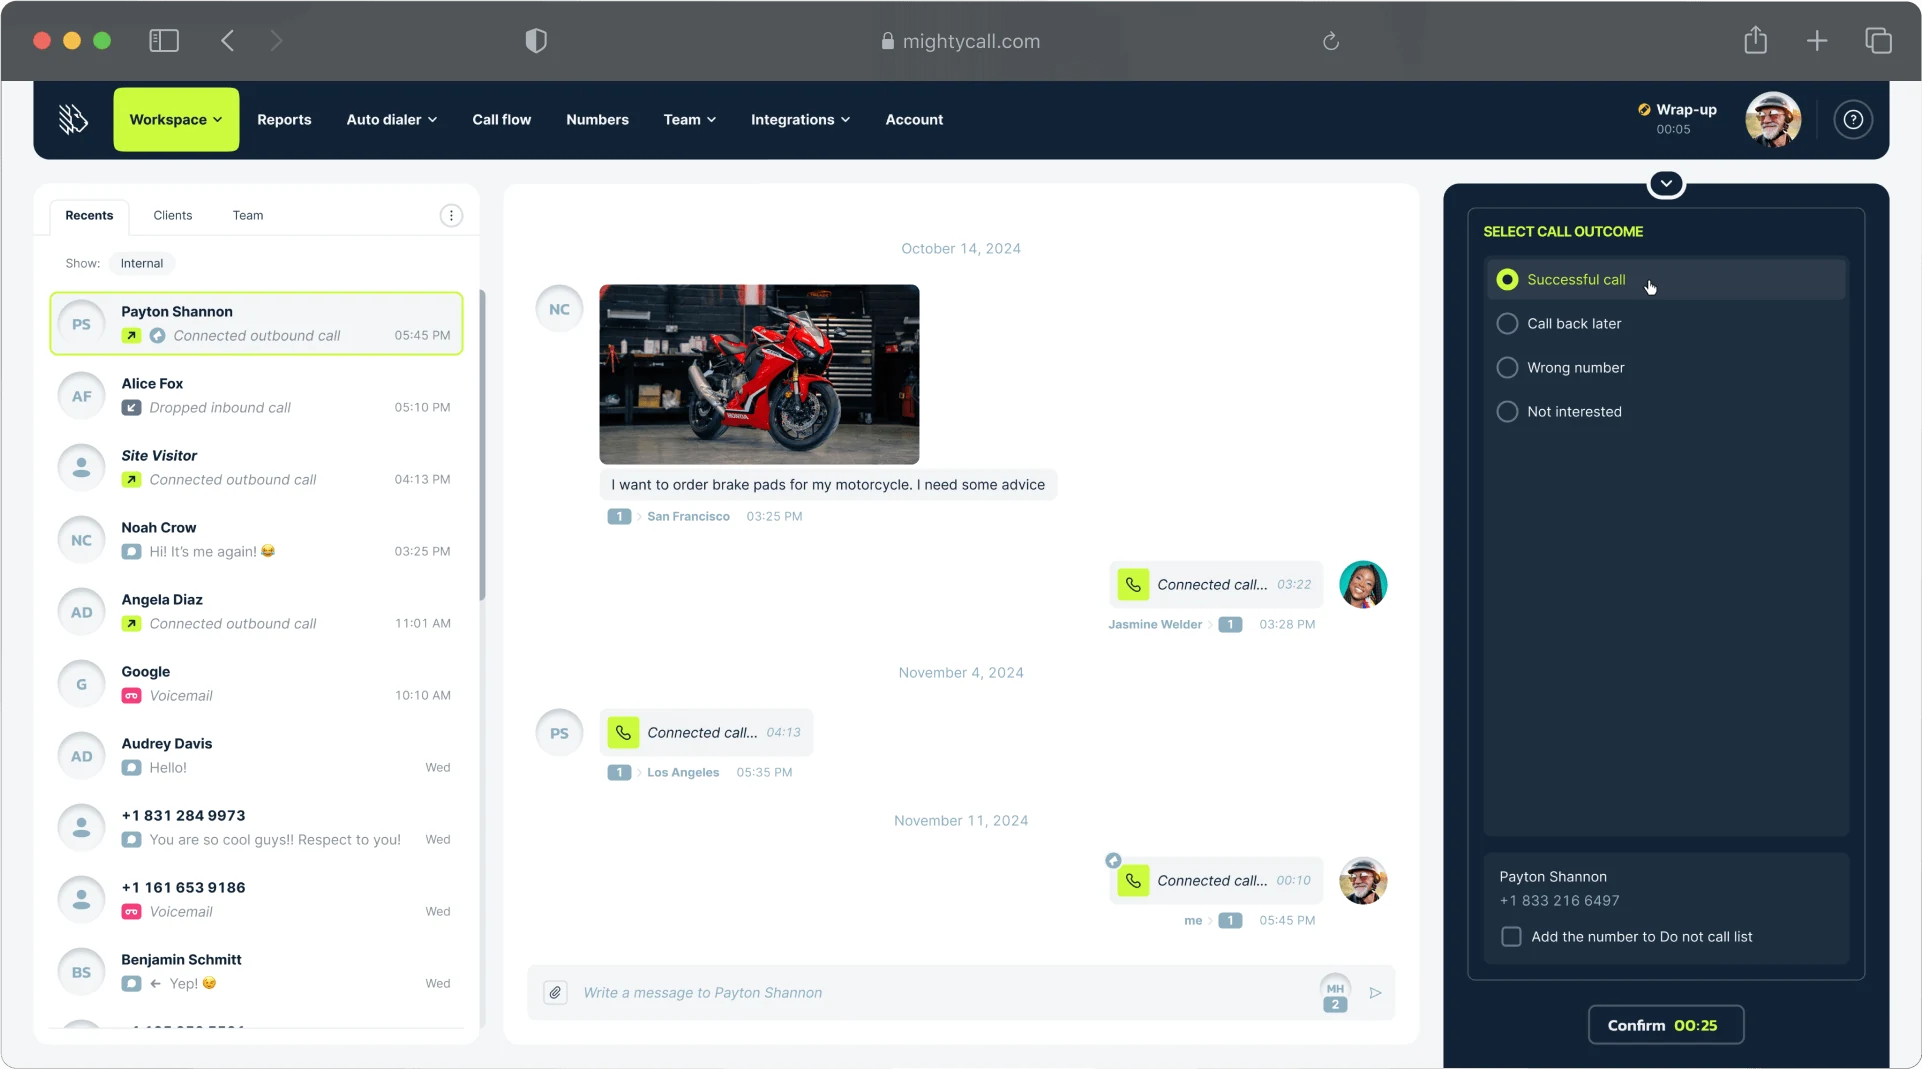
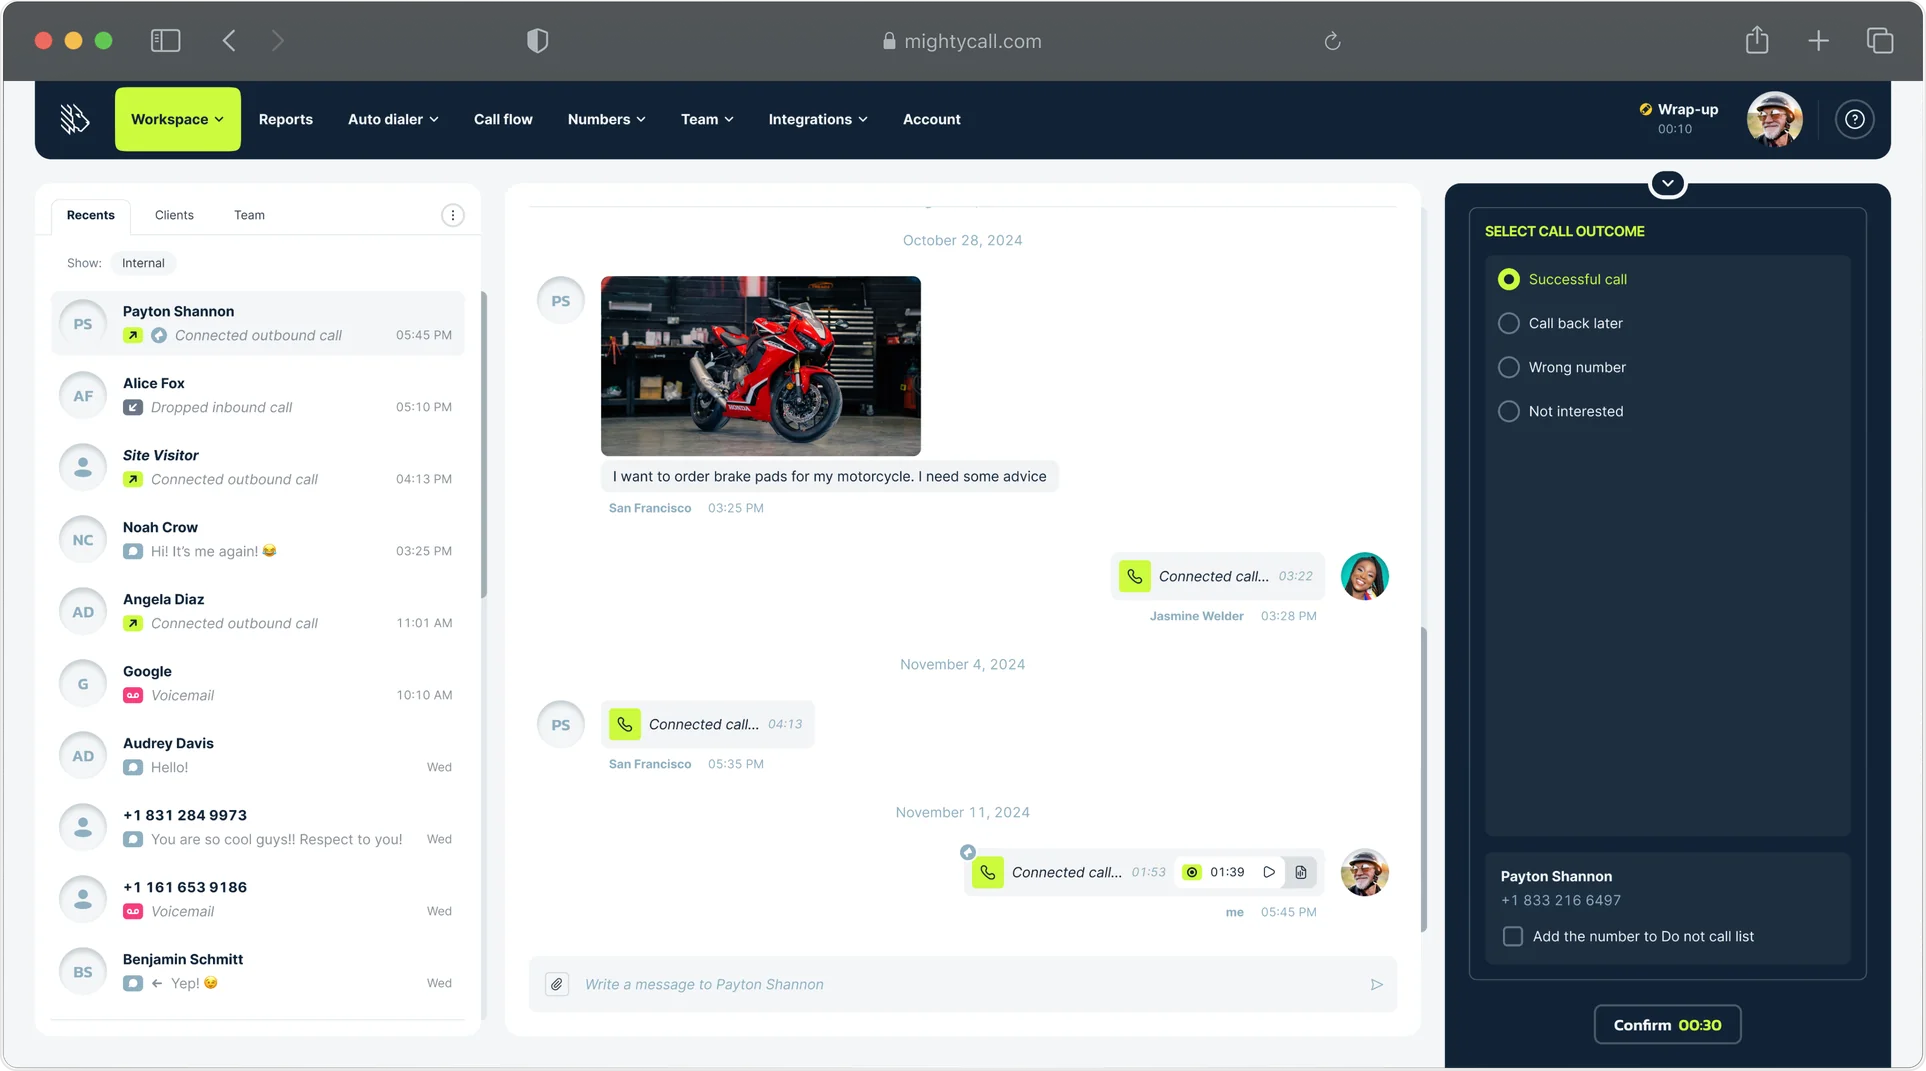
Кейс: обновлённые экраны оператора, без галереи «Так было»

diff --git a/cases/predictive-dialer/index.html b/cases/predictive-dialer/index.html
@@ -18,7 +18,7 @@
   <link rel="stylesheet" href="../../css/tokens.css?v=22">
   <link rel="stylesheet" href="../../css/base.css?v=20">
   <link rel="stylesheet" href="../../css/home.css?v=20">
-  <link rel="stylesheet" href="../../css/case.css?v=27">
+  <link rel="stylesheet" href="../../css/case.css?v=28">
   <link rel="icon" href="../../img/avatar.png">
   <script src="../../js/main.js?v=20" defer></script>
 </head>
@@ -126,30 +126,6 @@
         <h2 class="h3">Обзвон по&nbsp;одному абоненту перестал справляться с&nbsp;ростом клиентов</h2>
         <p class="text-l">Исходящие кампании работали в&nbsp;двух режимах. В&nbsp;режиме превью кампания присылает оператору в&nbsp;веб-фон звонок с&nbsp;данными контакта. Оператор принимает его, и&nbsp;только после этого система набирает номер. В&nbsp;прогрессивном система набирает следующий номер, как&nbsp;только оператор освободился.</p>
         <p class="text-l">Оба режима звонят одному абоненту за&nbsp;раз. Трубку берут в&nbsp;среднем в&nbsp;20–25% случаев, и&nbsp;оператор ждёт, пока система дозвонится. Для&nbsp;небольших команд это терпимо. Но&nbsp;с&nbsp;ростом базы клиентов и&nbsp;числа операторов пользователи стали спрашивать, как&nbsp;ускорить исходящие кампании.</p>
-      </div>
-      <!-- TODO: скриншоты «как было» от Романа (превью или прогрессивный): входящий звонок, затем разговор -->
-      <div class="section__wide gallery" data-gallery>
-        <div class="gallery__track" tabindex="0" role="region" aria-label="Как было, 2 картинки">
-          <figure class="figure gallery__slide">
-            <div class="figure__stage">
-              <div class="figure__placeholder label-s">Здесь будет скриншот входящего звонка</div>
-            </div>
-            <figcaption class="text-s">Так было. Входящий звонок из&nbsp;кампании</figcaption>
-          </figure>
-          <figure class="figure gallery__slide">
-            <div class="figure__stage">
-              <div class="figure__placeholder label-s">Здесь будет скриншот разговора</div>
-            </div>
-            <figcaption class="text-s">Так было. Разговор с&nbsp;абонентом</figcaption>
-          </figure>
-        </div>
-        <div class="gallery__nav" hidden>
-          <p class="gallery__count label-s" aria-live="polite"><span data-gallery-current>01</span> / <span data-gallery-total>02</span></p>
-          <button class="gallery__btn btn-outline" type="button" data-gallery-prev aria-label="Предыдущий экран"><svg class="px-arrow px-arrow--back" viewBox="0 0 8 7" shape-rendering="crispEdges" aria-hidden="true"><path d="M0 3h8v1H0zM4 0h1v1H4zM5 1h1v1H5zM6 2h1v1H6zM6 4h1v1H6zM5 5h1v1H5zM4 6h1v1H4z" fill="currentColor"/></svg></button>
-          <button class="gallery__btn btn-outline" type="button" data-gallery-next aria-label="Следующий экран"><svg class="px-arrow" viewBox="0 0 8 7" shape-rendering="crispEdges" aria-hidden="true"><path d="M0 3h8v1H0zM4 0h1v1H4zM5 1h1v1H5zM6 2h1v1H6zM6 4h1v1H6zM5 5h1v1H5zM4 6h1v1H4z" fill="currentColor"/></svg></button>
-        </div>
-      </div>
-      <div class="section__body">
         <p class="text-l"><strong>Объёмы.</strong> Звонки не&nbsp;успевали обрабатывать. Контакт дорожал, кампании теряли эффективность.</p>
         <p class="text-l"><strong>Паузы между вызовами.</strong> В&nbsp;превью каждый звонок оператор принимал вручную, а&nbsp;в&nbsp;прогрессивном оператор всё равно ждал, пока&nbsp;система дозвонится.</p>
         <p class="text-l"><strong>Ошибки набора.</strong> В&nbsp;спешке операторы ошибались в&nbsp;номерах или звонили не&nbsp;тем клиентам.</p>
@@ -243,22 +219,22 @@
         <div class="gallery__track" tabindex="0" role="region" aria-label="Экраны оператора, 3 картинки">
           <figure class="figure gallery__slide">
             <button class="figure__stage figure__zoom" type="button" data-zoom="fit" aria-label="Открыть картинку на весь экран">
-              <img class="theme-light" src="img/ringing.webp" alt="Рабочее место оператора с&nbsp;входящим звонком из&nbsp;кампании, справа название кампании, данные контакта и&nbsp;кнопка ответа" width="1926" height="1071" loading="lazy" decoding="async">
-              <img class="theme-dark" src="img/ringing-dark.webp" alt="Рабочее место оператора с&nbsp;входящим звонком из&nbsp;кампании, справа название кампании, данные контакта и&nbsp;кнопка ответа" width="1926" height="1071" loading="lazy" decoding="async">
+              <img class="theme-light" src="img/ringing.webp?v=3" alt="Рабочее место оператора с&nbsp;входящим звонком из&nbsp;кампании, справа название кампании, данные контакта и&nbsp;кнопка ответа" width="1926" height="1071" loading="lazy" decoding="async">
+              <img class="theme-dark" src="img/ringing-dark.webp?v=3" alt="Рабочее место оператора с&nbsp;входящим звонком из&nbsp;кампании, справа название кампании, данные контакта и&nbsp;кнопка ответа" width="1926" height="1071" loading="lazy" decoding="async">
             </button>
             <figcaption class="text-s">Звонок из&nbsp;кампании приходит, когда клиент уже на&nbsp;линии. Справа название кампании и&nbsp;данные&nbsp;контакта</figcaption>
           </figure>
           <figure class="figure gallery__slide">
             <button class="figure__stage figure__zoom" type="button" data-zoom="fit" aria-label="Открыть картинку на весь экран">
-              <img class="theme-light" src="img/on-call.webp?v=2" alt="Рабочее место оператора во&nbsp;время разговора с&nbsp;клиентом из&nbsp;кампании, справа данные контакта и&nbsp;вкладка результата звонка" width="1926" height="1071" loading="lazy" decoding="async">
-              <img class="theme-dark" src="img/on-call-dark.webp?v=2" alt="Рабочее место оператора во&nbsp;время разговора с&nbsp;клиентом из&nbsp;кампании, справа данные контакта и&nbsp;вкладка результата звонка" width="1926" height="1071" loading="lazy" decoding="async">
+              <img class="theme-light" src="img/on-call.webp?v=3" alt="Рабочее место оператора во&nbsp;время разговора с&nbsp;клиентом из&nbsp;кампании, справа данные контакта и&nbsp;вкладка результата звонка" width="1926" height="1071" loading="lazy" decoding="async">
+              <img class="theme-dark" src="img/on-call-dark.webp?v=3" alt="Рабочее место оператора во&nbsp;время разговора с&nbsp;клиентом из&nbsp;кампании, справа данные контакта и&nbsp;вкладка результата звонка" width="1926" height="1071" loading="lazy" decoding="async">
             </button>
             <figcaption class="text-s">Во&nbsp;время разговора данные контакта остаются на&nbsp;экране, рядом вкладка с&nbsp;результатом&nbsp;звонка</figcaption>
           </figure>
           <figure class="figure gallery__slide">
             <button class="figure__stage figure__zoom" type="button" data-zoom="fit" aria-label="Открыть картинку на весь экран">
-              <img class="theme-light" src="img/wrap-up.webp" alt="Рабочее место оператора после звонка с&nbsp;выбором результата звонка и&nbsp;таймер постобработки" width="1923" height="1070" loading="lazy" decoding="async">
-              <img class="theme-dark" src="img/wrap-up-dark.webp" alt="Рабочее место оператора после звонка с&nbsp;выбором результата звонка и&nbsp;таймер постобработки" width="1922" height="1069" loading="lazy" decoding="async">
+              <img class="theme-light" src="img/wrap-up.webp?v=3" alt="Рабочее место оператора после звонка с&nbsp;выбором результата звонка и&nbsp;таймер постобработки" width="1926" height="1071" loading="lazy" decoding="async">
+              <img class="theme-dark" src="img/wrap-up-dark.webp?v=3" alt="Рабочее место оператора после звонка с&nbsp;выбором результата звонка и&nbsp;таймер постобработки" width="1926" height="1071" loading="lazy" decoding="async">
             </button>
             <figcaption class="text-s">После звонка оператор выбирает результат, пока идёт время&nbsp;постобработки</figcaption>
           </figure>

diff --git a/css/case.css b/css/case.css
@@ -124,8 +124,6 @@
 .figure__video { width: 100%; height: auto; vertical-align: top; pointer-events: none; }  /* display задают классы темы */
 .figure__video::-webkit-media-controls-start-playback-button { display: none; }  /* iOS в режиме энергосбережения не рисует кнопку */
 .figure figcaption { color: var(--muted); max-width: 40em; }
-/* Временная заглушка картинки: пропорции скриншота, подпись по центру */
-.figure__placeholder { aspect-ratio: 1923 / 1070; display: grid; place-items: center; padding: var(--space-24); text-align: center; color: var(--muted); }
 
 /* Схема: сцена cover, поля 32, по ширине блока; по клику — на весь экран */
 .figure--diagram .figure__stage { background: var(--cover); padding: var(--space-32); }
